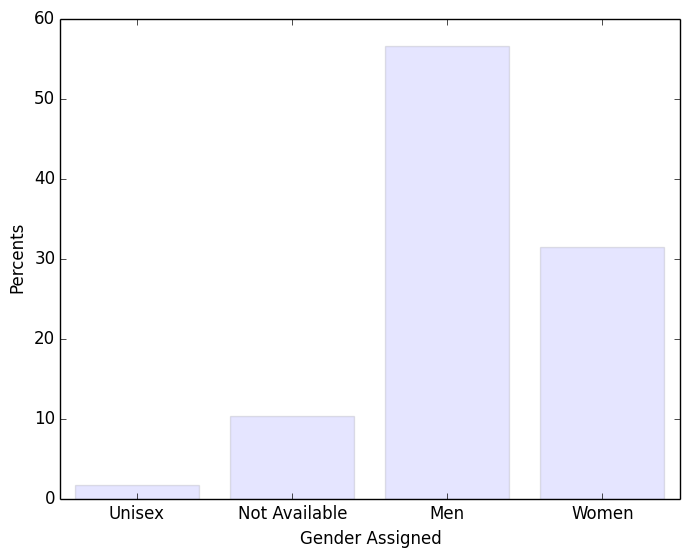
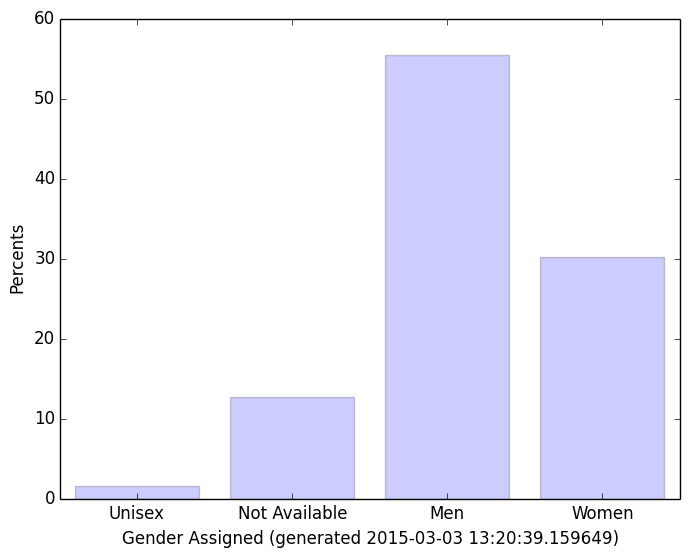
gender bar chart now includes time of generation

diff --git a/bibliometrics/gender_bib_distribution.py b/bibliometrics/gender_bib_distribution.py
@@ -19,22 +19,21 @@ import matplotlib.pyplot as plt; plt.rcdefaults()
 import numpy as np
 import matplotlib.pyplot as plt
 
+"""date time functions """
+from datetime import datetime #idk bring in the system date or whatever
 
-# In[16]:
 
+# In[3]:
+
+today = datetime.today()
 bib = 'CriticalOpenNeuro.bib' #bring that bib file in
-
-
-# In[10]:
-
 gc = GenderComputer(os.path.abspath('genderComputer/nameLists')) #make gendercomputer
 
 
-# In[11]:
+# In[4]:
 
 def customizations(record):
     """Use some functions delivered by the library
-
     :param record: a record
     :returns: -- customized record
     """
@@ -45,7 +44,7 @@ def customizations(record):
     return record
 
 
-# In[12]:
+# In[5]:
 
 def parseFile(bib_file):
     """parse the bib file
@@ -61,7 +60,7 @@ def parseFile(bib_file):
         return data
 
 
-# In[13]:
+# In[6]:
 
 def countGender(ts=True):
     """take the bib database and count genders of authors
@@ -93,7 +92,7 @@ def countGender(ts=True):
             
 
 
-# In[14]:
+# In[7]:
 
 women = 0
 men = 0
@@ -102,19 +101,19 @@ notav = 0
 auCount = 0
 
 
-# In[17]:
+# In[8]:
 
 data = parseFile(bib) #run the parse file
-countGender(ts=False)
+countGender()
 
 
-# In[18]:
+# In[9]:
 
 stats = {'Women':women, 'Men':men, 'Unisex':uni, 'Not Available':notav}
 percents = {'Women':women, 'Men':men, 'Unisex':uni, 'Not Available':notav}
 
 
-# In[19]:
+# In[10]:
 
 for key in stats:
     value = stats[key]
@@ -122,22 +121,22 @@ for key in stats:
     percents[key] = percent
 
 
-# In[20]:
+# In[11]:
 
 print stats
 print percents
 print auCount
 
 
-# In[21]:
+# In[12]:
 
-plt.bar(range(len(stats)), percents.values(), align='center', alpha=0.1)
+plt.bar(range(len(stats)), percents.values(), align='center', alpha=0.2)
 plt.xticks(range(len(percents)), percents.keys())
-plt.xlabel('Gender Assigned')
+plt.xlabel('Gender Assigned (generated ' + str(today) +')')
 plt.ylabel('Percents')
 
 
-# In[22]:
+# In[13]:
 
 plt.savefig('gender_distr.png', bbox_inches='tight')
 
